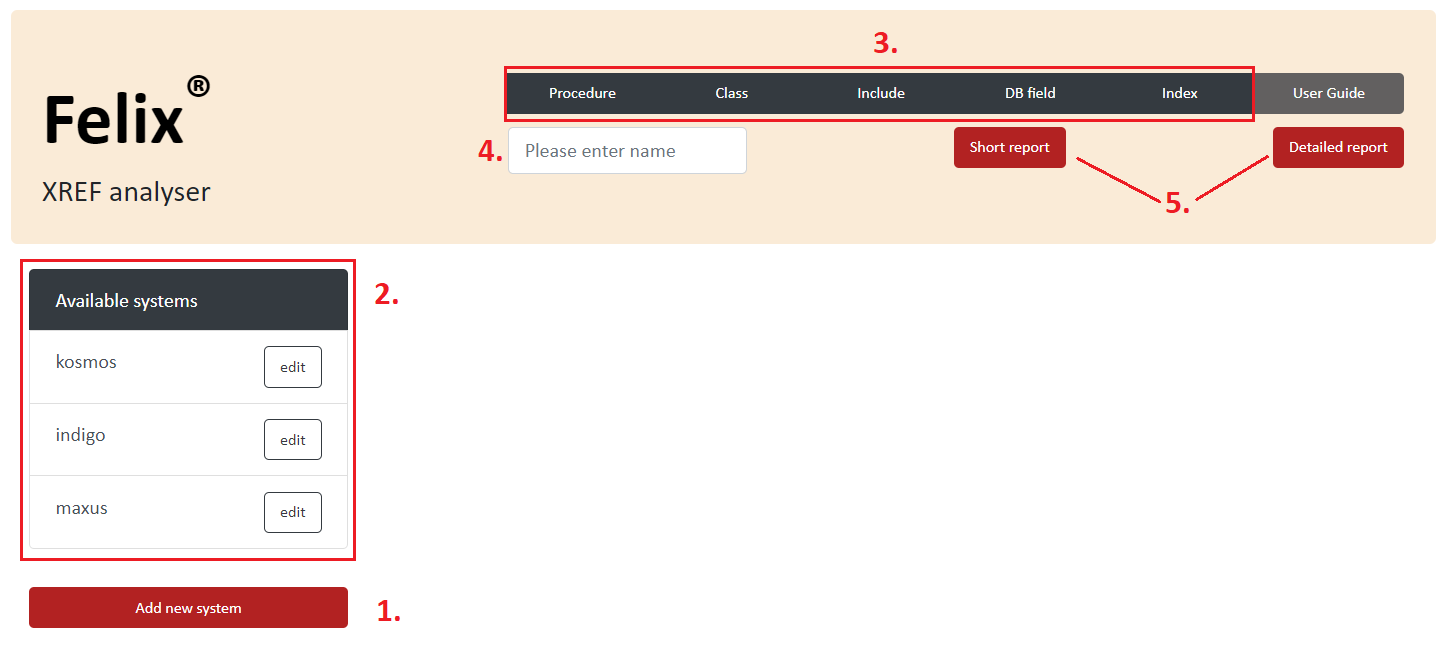
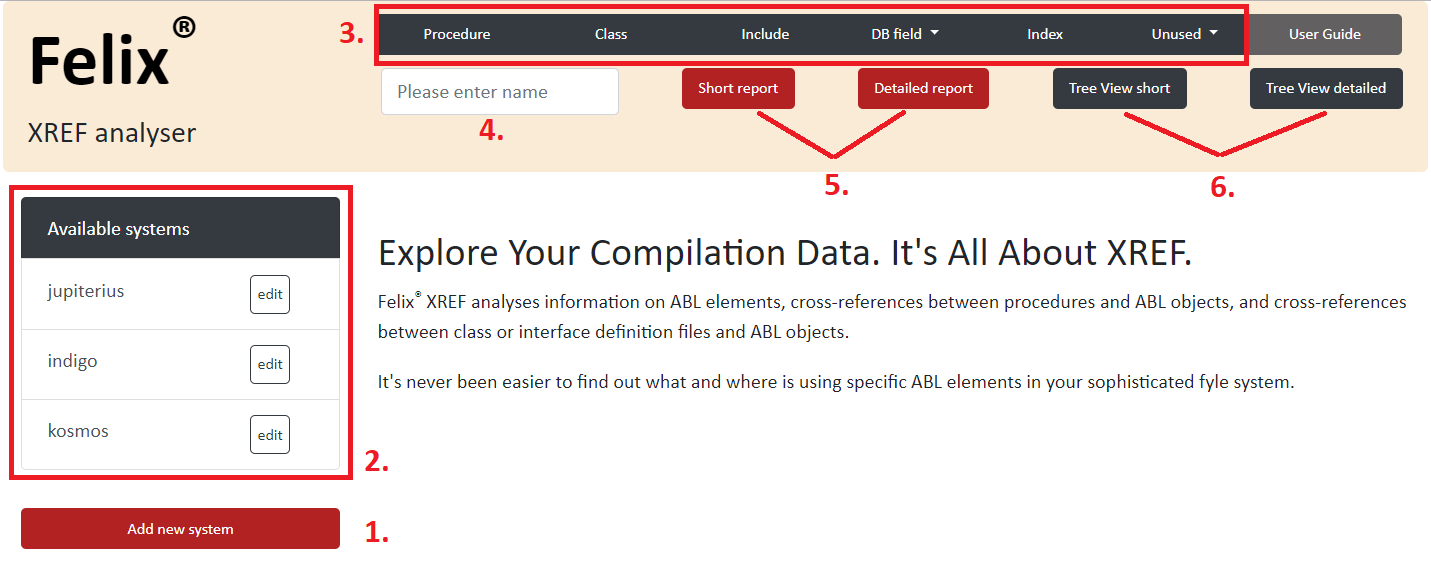
Atnaujintas user guide.

diff --git a/src/main/progress/front.html b/src/main/progress/front.html
@@ -229,7 +229,7 @@
                                 information prepared for analysis.</p>
                             <h5>3. Choose a type.<h5>
                             <p>Choose a type of the element you are searching: a procedure, a class, an include, 
-                                a database field ("access" or "update"), or an index.</p>
+                                a database field ("access" or "update"), index or unused elements.</p>
                             <h5>4. Insert name.<h5>
                             <p>Insert a name of the element you are searching. The more correct and specific name 
                                  you enter, the better search results are displayed.</p>
@@ -237,10 +237,18 @@
                             <p>Felix<sup>&reg</sup> XREF analyser outputs two types of reports: "Short report" 
                                 shows only those ABL elements which are using the searched element; "Detailed report" 
                                 includes path, call type, and repeated calls wwitin the same object, if any.</p>
+                            <h5>6. Choose detail of tree view.<h5>
+                            <p>Felix<sup>&reg</sup> XREF analyser outputs two types of tree view reports: in the first column "Tree view short" 
+                                shows all ABL elements which are using the searched element and in the second column shows all ABL elements that searched element is using; "Tree view detailed" 
+                                 shows same information as "Tree View short" plus additional information like methods and etc. </p>
 	                    <h3>Example of short report</h3>
 	                    <img class="user-guide-img" src="/felix/how_to_two" alt="Picture of how-to">
 	                    <h3>Example of detailed report</h3>
 	                    <img class="user-guide-img" src="/felix/how_to_three" alt="Picture of how-to">
+	                    <h3>Example of "Tree View short"</h3>
+                        <img class="user-guide-img" src="/felix/how_to_four" alt="Picture of how-to">
+                        <h3>Example of "Tree View detailed"</h3>
+                        <img class="user-guide-img" src="/felix/how_to_five" alt="Picture of how-to">
 	                </div>
 	                
 	                <!--WSS if lClearFront 
@@ -306,10 +314,11 @@
 		                        <label for="sysPath">Path:</label>
 		                        <input id="sysPath" autocomplete="off" type="text" class="form-control"
 		                            name="sysPath" value="`systems.localSourcePath`" placeholder="please enter system source path">
-		                        <label for="sysPropath">Propath:</label>
+		                        <!-- <label for="sysPropath">Propath:</label>
 		                        <input id="sysPropath" autocomplete="off" type="text" class="form-control"
 		                            name="sysPropath" value="`systems.systemPropath`" placeholder="please enter system propath">
-		                        <label for="dbPar">Database:</label>
+		                        -->
+		                        <label for="dbPar">Database .df and .st path:</label>
 		                        <input id="dbPar" autocomplete="off" type="text" class="form-control"
 		                            name="dbPar" value="`systems.systemDBparameters`" placeholder="please enter system database parameters">
 		                        <input type="hidden" name="updSystem" value="add">
@@ -368,7 +377,7 @@
 		                            <!--WSS for each ttDetails: 
 									iLineCounter = iLineCounter + 1. -->
 		                                <tr>
-										    <td> `iLineCounter`</td>
+										    <td style = "width: 7%;"> `iLineCounter`</td>
 										    <td> `ttDetails.compileUnit` </td>
 										</tr>
 			                        <!--WSS end. 
@@ -396,7 +405,7 @@
 								    <!--WSS for each ttDetails:
 									iLineCounter = iLineCounter + 1. -->
 		                            <tr>
-									    <td>`iLineCounter`</td>
+									    <td style = "width: 7%;">`iLineCounter`</td>
 		                                <td class="t-1">`ttDetails.compileUnit`</td>
 										<td class="t-2">`ttDetails.fileName`</td>
 										<td class="t-3">`ttDetails.sourcePath`</td>
@@ -411,7 +420,7 @@
 		                <!--WSS end. 
 		            end.
 		            
-		            if cUnused <> "" and iType > 70 and lTreeShort = false and lTreeDetailed
+		            if cUnused <> "" and iType > 70 and lTreeShort = false and lTreeDetailed = false
                     then do:
                         run findUnused.p (input cSystem, output table ttUnused). -->
                             <div class='form-holder'>
@@ -421,7 +430,7 @@
                                     <!--WSS for each ttUnused where ttUnused.type matches cUnused: 
 									iLineCounter = iLineCounter + 1. -->
                                         <tr>
-                                            <td> `iLineCounter` </td>
+                                            <td style = "width: 7%;"> `iLineCounter` </td>
                                             <td> `ttUnused.Type` </td>
                                             <td> `ttUnused.Name` </td>
                                             <td> `ttUnused.compileUnit` </td>
@@ -441,52 +450,53 @@
 			            <div class="form-holder">
                             <p class="output-message">Working environment of <span class="refName">`cName`</span> in <span 
                                  class="refName">`cSystem`</span>:</p>
-                        </div>
+                        
 	
-		                <table>
-                            <thead>
-                                <th><span class="refName">`cName` </span>used by</th><th><span class="refName">`cName` </span>is using</th>
-                            </thead>
-			                <td valign = "top" style="width: 50%;">
-				                <div class="align-item-start">
-			                           <!--WSS iCount = 1.
-			                           for each ttCalling by ttCalling.f1: 
-			                           iLineCounter = iLineCounter + 1. -->
-			                               <form id="cf`iCount`" action="front.html">
-			                               <span class="tree-bucket-entries" value="`iCount`"><span>`iLineCounter`. </span> `ttCalling.f1` <span 
-                                       class="tree-bucket-entries-type">(`ttCalling.type`)</span></span>
-			                                   <input type="hidden" name="tree" value="yes">
-			                                   <input type="hidden" name="name" value="`ttCalling.f1`">
-			                                   <input type="hidden" name="system" value="`cSystem`">
-			                               </form>
-			                           <!--WSS iCount = iCount + 1.
-			                           end.  
-			                           iLineCounter = 0.-->
-		                        </div>
-	                        </td>
-                            
-	                        <td valign = "top" style="width: 50%;">
-			                    <div class="">
-				                       <!--WSS for each ttList by ttList.f1: 
-				                       iLineCounter = iLineCounter + 1. -->
-				                           <form id="cf`iCount`" action="front.html">
-                                            <span class="tree-bucket-entries" value="`iCount`"><span>`iLineCounter`. </span><span class="tree-bucket-entries-type">
-                                            (`ttList.type`)</span>`ttList.f1`<br> 
-                                            <!--WSS if lTreeDetailed = true then -->
-                                                <span><strong>Information: </strong>`ttList.f2`</span>
-                                            <!WSS end. -->
-                                            </span>
-                                            
-				                               <input type="hidden" name="tree" value="yes">
-				                               <input type="hidden" name="name" value="`ttList.f1`">
-				                               <input type="hidden" name="system" value="`cSystem`">
-				                           </form>
-			                           <!--WSS iCount = iCount + 1.
-			                           end.  
-			                           iLineCounter = 0. -->
-			                    </div>
-		                    </td>                        
-	                    </table>
+			                <table>
+	                            <thead>
+	                                <th><span class="refName">`cName` </span>used by</th><th><span class="refName">`cName` </span>is using</th>
+	                            </thead>
+				                <td valign = "top" style="width: 50%;">
+					                <div class="align-item-start">
+				                           <!--WSS iCount = 1.
+				                           for each ttCalling by ttCalling.f1: 
+				                           iLineCounter = iLineCounter + 1. -->
+				                               <form id="cf`iCount`" action="front.html">
+				                               <span class="tree-bucket-entries" value="`iCount`"><span>`iLineCounter`. </span> `ttCalling.f1` <span 
+	                                       class="tree-bucket-entries-type">(`ttCalling.type`)</span></span>
+				                                   <input type="hidden" name="tree" value="yes">
+				                                   <input type="hidden" name="name" value="`ttCalling.f1`">
+				                                   <input type="hidden" name="system" value="`cSystem`">
+				                               </form>
+				                           <!--WSS iCount = iCount + 1.
+				                           end.  
+				                           iLineCounter = 0.-->
+			                        </div>
+		                        </td>
+	                            
+		                        <td valign = "top" style="width: 50%;">
+				                    <div class="">
+					                       <!--WSS for each ttList by ttList.f1: 
+					                       iLineCounter = iLineCounter + 1. -->
+					                           <form id="cf`iCount`" action="front.html">
+	                                            <span class="tree-bucket-entries" value="`iCount`"><span>`iLineCounter`. </span><span class="tree-bucket-entries-type">
+	                                            (`ttList.type`)</span>`ttList.f1`<br> 
+	                                            <!--WSS if lTreeDetailed = true then -->
+	                                                <span><strong>Information: </strong>`ttList.f2`</span>
+	                                            <!WSS end. -->
+	                                            </span>
+	                                            
+					                               <input type="hidden" name="tree" value="yes">
+					                               <input type="hidden" name="name" value="`ttList.f1`">
+					                               <input type="hidden" name="system" value="`cSystem`">
+					                           </form>
+				                           <!--WSS iCount = iCount + 1.
+				                           end.  
+				                           iLineCounter = 0. -->
+				                    </div>
+			                    </td>                        
+		                    </table>
+		                </div>
 	                <!--WSS end.  -->
 	            </div>
             </div>
